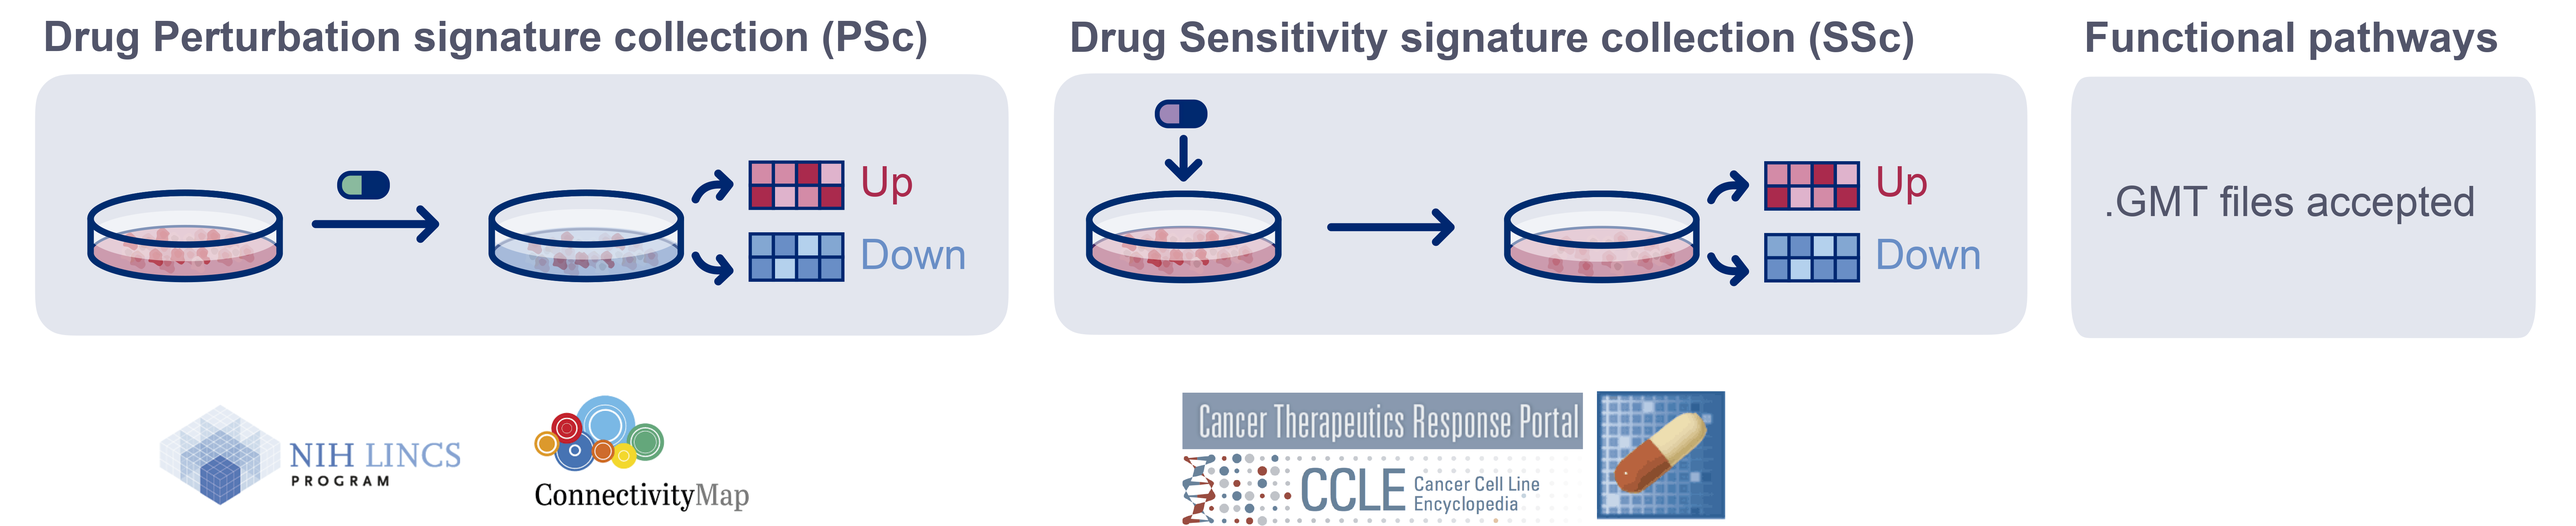
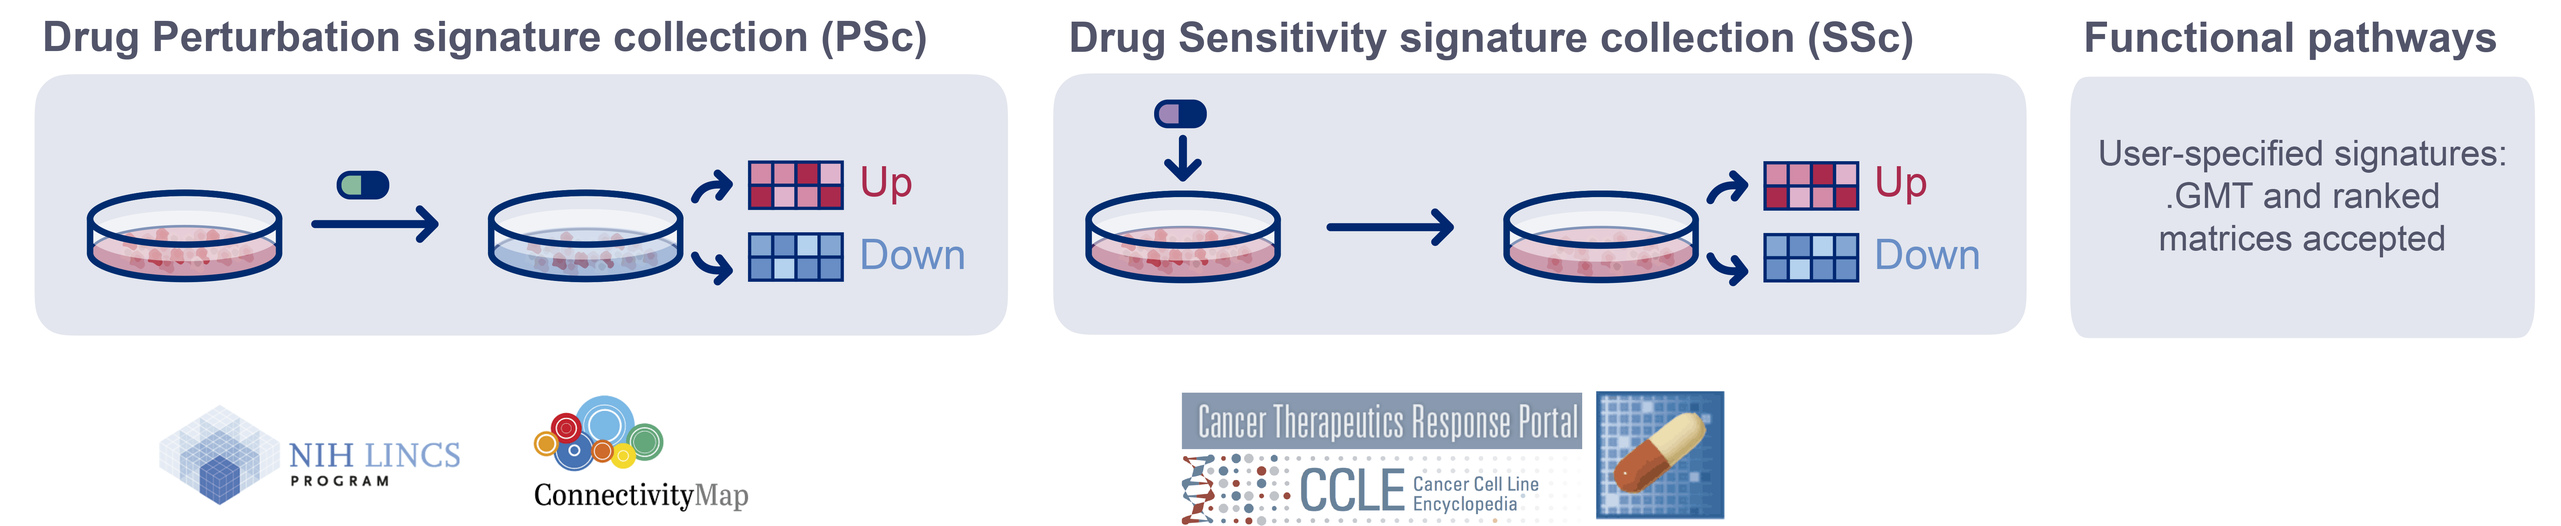
Update tutorials
Fixes minor spell typos and updates the installation page
with the conda installation instructions, tweaks some images
and adds authors to the license.

diff --git a/tutorial/analysis_workflow/README.md b/tutorial/analysis_workflow/README.md
@@ -9,53 +9,56 @@ We have validated Beyondcell in a population of MCF7-AA cells exposed to 500nM o
 ## Using Beyondcell
 For a correct analysis with **Beyondcell**, users should follow these steps: 
 
- 1. Read single cell expression matrix
- 2. Compute Beyondcell scores
- 3. Compute Therapeutic clusters
+ 1. Read a single-cell expression object
+ 2. Compute the Beyondcell scores (BCS)
+ 3. Compute the Therapeutic Clusters (TCs)
     * Check clustering and look for unwanted sources of variation
     * Regress out unwanted sources of variation
-    * Recompute UMAP
+    * Recompute UMAP rduction
  4. Compute ranks
  5. [**Visualize**](https://gitlab.com/bu_cnio/Beyondcell/-/tree/master/tutorial/visualization) the results
 
 
-### 1. Read single cell expression object
-In order to correctly compute the scores, the transcriptomic data needs to be pres-processed. This means that proper cell-based quality control filters, as well as normalization, scaling and clustering of the data, should be applied prior to the analysis with **Beyondcell**. 
+### 1. Read a single-cell expression object
+Beyondcell can accept both a single-cell matrix or a Seurat object. In order to correctly compute the scores, the transcriptomics data needs to be pre-processed. This means that proper cell-based quality control filters, as well as normalization and scaling of the data, should be applied prior to the analysis with Beyondcell.
+
+> Note: We recommend using a Seurat object.
 
 ```r
-library("Beyondcell")
+library("beyondcell")
 library("Seurat")
 # Read single cell experiment
 sc = readRDS(path_to_sc)
 ```
 
-### 2. Compute BCS
-The `bcCompute` function allows you to input either a pre-processed seurat object or a single cell matrix. Have in mind, that when a seurat object is used as an input, the `DefaultAssay` must be specified, both `SCT` and `RNA` assays are accepted.
+Note that if you are using a Seurat object, the `DefaultAssay` must be specified. Both `SCT` and `RNA` assays are accepted.
 
 ```r
 # Set Assay
 DefaultAssay(sc) <- "RNA"
 ```
-**Generate Signatures**\
-In order to compute the BCS, we also need a **gene signatures object** containing the drug or functional signatures we are interested in evaluating. To create this object, the `GenerateGenesets` function needs to be called. **Beyondcell** includes two drug signature collections that are ready to use:
 
- * The drug Perturbation Signatures collection (PSc): captures the transcriptional changes induced by a drug.
- * The drug Sensitivity  Signatures collection (SSc): captures the drug sensitivity to a given drug.
+### 2. Compute the BCS
+We need to perform two steps:
 
-A small collection of functional pathways will be included by default in your gene signatures object. These pathways are related to the regulation of the epithelial-mesenchymal transition (EMT), cell cycle, proliferation, senescence and apoptosis.  
+#### Get a geneset object with signatures of interest
+In order to compute the BCS, we also need a `geneset` object containing the drug or functional signatures we are interested in evaluating. To create this object, the `GenerateGenesets` function needs to be called. Beyondcell includes two drug signature collections that are ready to use:
+
+ * **Drug Perturbation Signatures collection (PSc):** Captures the transcriptional changes induced by a drug.
+ * **Drug Sensitivity Signatures collection (SSc):** Captures the drug sensitivity to a given drug.
+
+A small collection of functional pathways will be included by default in your gene signatures object. These pathways are related to the regulation of the epithelial-mesenchymal transition (EMT), cell cycle, proliferation, senescence and apoptosis.
 
 ```r
-# Generate gene signatures object with one of the ready to use signature collections
-gs <- GenerateGenesets(PSc, include.pathways = TRUE)
+# Generate geneset object with one of the ready to use signature collections
+gset <- GenerateGenesets(PSc)
 # You can deactivate the functional pathways option if you are not interested in evaluating them
-gs <- GenerateGenesets(PSc, include.pathways = FALSE)
+nopath <- GenerateGenesets(PSc, include.pathways = FALSE)
 ```
 
-Furthermore, **Beyondcell** allows the user to input a .GMT file containing the functional pathways/signatures of interest, or a numeric matrix (containing a ranking criteria such as the t-statistic or logFoldChange).
+PSc and SSc signatures can also be filtered according to several values. Moreover, Beyondcell allows the user to input a GMT file containing the functional pathways/signatures of interest, or a numeric matrix (containing a ranking criteria such as the t-statistic or logFoldChange). For further information please check [GenerateGenesets](https://gitlab.com/bu_cnio/Beyondcell/-/tree/master/tutorial/GenerateGenesets) tutorial.
 
-You can check out the structure of the obtained gene set object, information on the drug signatures, mode of action and target genes can be found at `gs@info` or by using the `FindDrugs` function. 
-
-**Compute BCS**
+#### Compute the BCS
 ```r
 # Compute score for the PSc. This might take a few minutes depending on the size of your dataset.
 bc <- bcScore(sc, gs, expr.thres = 0.1) 
@@ -85,13 +88,13 @@ It is important to check whether any unwanted source of variation is guiding the
 
 ```r
 # Visualize whether cells are clustered based on the number of genes detecter per each cell
-bcClusters(bc, UMAP = "Beyondcell", idents = "nFeature_RNA", factor.col = FALSE)
+bcClusters(bc, UMAP = "beyondcell", idents = "nFeature_RNA", factor.col = FALSE)
 ```
 <img src=".img/nFeature_variation.png" width="500">
 
 ```r
 # Visualize whether cells are clustered based on their cell cycle status
-bcClusters(bc, UMAP = "Beyondcell", idents = "Phase", factor.col = TRUE)
+bcClusters(bc, UMAP = "beyondcell", idents = "Phase", factor.col = TRUE)
 ```
 <img src=".img/Phase_variation.png" width="500">
 
@@ -112,9 +115,9 @@ Once corrected, you will need to recompute the dimensionality reduction and clus
 # Recompute UMAP
 bc <- bcUMAP(bc, pc = 5, res = 0.2, add.DSS = FALSE, k.neighbors = 20) 
 # Visualize UMAP
-bcClusters(bc, UMAP = "Beyondcell", idents = "nFeature_RNA", factor.col = FALSE, pt.size = 1)
+bcClusters(bc, UMAP = "beyondcell", idents = "nFeature_RNA", factor.col = FALSE, pt.size = 1)
 # Visualize Therapeutic clusters
-bcClusters(bc, UMAP = "Beyondcell", idents = "bc_clusters_res.0.2", pt.size = 1)
+bcClusters(bc, UMAP = "beyondcell", idents = "bc_clusters_res.0.2", pt.size = 1)
 ```
 
 <p float="left">

diff --git a/tutorial/GenerateGenesets/README.md b/tutorial/GenerateGenesets/README.md
@@ -1,0 +1,73 @@
+# GenerateGenesets function
+
+
+
+By default, `GenerateGenesets` returns a `geneset` with the `250` most upregulated and downregulated genes in each drug signature. You can change this behaviour by providing new values to `n.genes` and `mode`. Moreover, a small collection of functional pathways will be included in your `geneset` object. These pathways are related to the regulation of the epithelial-mesenchymal transition (EMT), cell cycle, proliferation, senescence and apoptosis. Note that `n.genes` and `mode` arguments do not affect to functional pathways.
+
+```r
+# Generate geneset object with one of the ready to use signature collections.
+gset <- GenerateGenesets(PSc)
+# Retrieve only the top 100 most upregulated genes in drug signatures (functional pathways remain unchanged)
+up100 <- GenerateGenesets(PSc, n.genes = 100, mode = "up")
+# You can deactivate the functional pathways option if you are not interested in evaluating them
+nopath <- GenerateGenesets(PSc, include.pathways = FALSE)
+```
+
+Additionaly, you can computed a `geneset` from a pre-loaded PSc subset called DSS.
+
+```r
+# Generate geneset object with one of the ready to use signature collections
+dss <- GenerateGenesets(DSS, include.pathways = FALSE)
+```
+
+Also, you can filter PSc, SSc and DDS objects by several fields (cap insensitive):
+
+ * `drugs`: Drug name of interest (i.e sirolimus).
+ * `IDs`: `sig_id` of the signature(s) of interest.
+ * `MoA`: Desired mechanism of action of interest (i.e. MTOR INHIBITOR).
+ * `targets`: Target gene of interest (i.e. MTOR).
+ * `source`: `"LINCS"` (for PSc) or `"GDSC"`, `"CCLE"` and/or `"CTRP"` (for SSc)
+
+```r
+# Return a `geneset` with all sirolimus signatures, as well as signatures of sirolimus synonyms such as 
+# rapamycin or BRD-K84937637
+sirolimus <- GenerateGenesets(SSc, include.pathways = FALSE, filters = list(drugs = "sirolimus"))
+# Return just a subset of sirolimus signatures
+my_sigs <- GenerateGenesets(SSc, include.pathways = FALSE, filters = list(IDs = c("sig_2349", "sig_7409"))
+# Return all MTOR INHIBITORS
+MTORi <- GenerateGenesets(SSc, include.pathways = FALSE, filters = list(MoA = "MTOR INHIBITOR")
+# Return all drugs targetting MTOR
+mtor_targets <- GenerateGenesets(SSc, include.pathways = FALSE, filters = list(targets = "MTOR")
+# Return only signatures derived from GDSC and CCLE
+my_sources <- GenerateGenesets(SSc, include.pathways = FALSE, filters = list(source = c("GDSC", "CCLE"))
+```
+
+By calling `ListFilters` function, you can retrieve all the available values for a given field. The signatures that pass **ANY** of these filters are included in the final `geneset`.
+
+```r
+# Values for targets
+ListFilters(entry = "targets")
+# Geneset with all drugs taht target MTOR and sirolimus signatures
+filter_combination <- GenerateGenesets(SSc, include.pathways = FALSE, 
+                                       filters = list(drugs = "sirolimus", targets = "MTOR"))
+```
+You can check information about the pre-loaded signatures calling the object `drugInfo`. Also, each `geneset` object obtained using pre-loaded matrices contains a subset of `drugInfo` for the selected drugs.
+
+```r
+# drugInfo of the signatures of interest
+gset@info
+```
+
+Finally, Beyondcell allows the user to input a GMT file containing the functional pathways/signatures of interest or a numeric matrix (containing a ranking criteria such as the t-statistic or logFoldChange).
+
+ * **In case your input is a GMT file:** You must supply the path to the file. Take into account that the names of each gene set must end in `"_UP"` or `"_DOWN"` to specify its mode. In this case, `n.genes` and `mode` are deprecated.
+ * **In case your input is a numeric matrix:** Make sure that rows correspond to genes and columns to signatures.
+ 
+In both cases, `filters` argument is deprecated but you must indicate if the `comparison` that yielded your input was `"treated_vs_control"` or `"sensitive_vs_resistant"`.
+
+```r
+# Mock numeric matrix
+m <- matrix(rnorm(500 * 25), ncol = 25, dimnames = list(rownames(PSc[[1]])[1:500], colnames(PSc[[1]])[1:25]))
+num_matrix <- GenerateGenesets(m, n.genes = 100, mode = c("up", "down"), 
+                               comparison = "treated_vs_control", include.pathways = TRUE)
+```

diff --git a/README.md b/README.md
@@ -7,7 +7,7 @@
 
 ## Workflow overview
 
-**Beyondcell workflow.** Given two inputs, the scRNA-seq expression matrix and a collection of drug signatures, the methodology calculates a beyondcell score (BCS) for each drug-cell pair. The BCS ranges from 0 to 1 and measures the susceptibility of each cell to a given drug. The resulting BCS matrix can be used to determine the sample’s therapeutic clusters. Furthermore, drugs are prioritized in a table and each individual drug score can be visualized in a UMAP.
+**Beyondcell workflow.** Given two inputs, the scRNA-seq expression matrix and a collection of drug signatures, the methodology calculates a Beyondcell score (BCS) for each drug-cell pair. The BCS ranges from 0 to 1 and measures the susceptibility of each cell to a given drug. The resulting BCS matrix can be used to determine the sample’s therapeutic clusters. Furthermore, drugs are prioritized in a table and each individual drug score can be visualized in a UMAP.
 
 ![Beyondcell workflow](./.img/workflow_tutorial.png)
 
@@ -22,18 +22,19 @@ Depending on the evaluated signatures, the BCS represents the cell perturbation 
  * If time points are available, identify the changes in drug tolerance of your samples
  * Identify mechanisms of resistance
 
-## Installing beyondcell
-The **Beyondcell** algorithm is implemented in R (v. 4.0.0 or greater). We recommend running the installation via gitlab using devtools:
+## Installing Beyondcell
+The Beyondcell algorithm is implemented in R (v. 4.0.0 or greater). We recommend running the installation via conda: 
 
 ```r
-library("devtools")
-devtools::install_gitlab("bu_cnio/Beyondcell")
+# Create a conda environment
+conda create -n beyondcell 
+# Install Beyondcell package and dependencies
+conda install -c bu_cnio beyondcell
 ```
 
-See the DESCRIPTION file for a complete list of R dependencies. If the R dependencies are already installed, installation should finish promptly.
 
 ## Results
-We have validated Beyondcell in a population of MCF7-AA cells exposed to 500nM of bortezomib and collected at different time points: t0 (before treatment), t12, t48 and t96 (72h treatment followed by drug wash and 24h of recovery) obtained from *Ben-David U, et al., Nature, 2018*. We integrated all four conditions using the Seurat pipeline (left). After calculating the beyondcell scores (BCS) for each cell, a clustering analysis was applied. **Beyondcell** was able to cluster the cells based on their treatment time point, to separate untreated cells from treated cells (center) and to recapitulate the changes arisen by the treatment with bortezomib (right). 
+We have validated Beyondcell in a population of MCF7-AA cells exposed to 500nM of bortezomib and collected at different time points: t0 (before treatment), t12, t48 and t96 (72h treatment followed by drug wash and 24h of recovery) obtained from *Ben-David U, et al., Nature, 2018*. We integrated all four conditions using the Seurat pipeline (left). After calculating the BCS for each cell, a clustering analysis was applied. Beyondcell was able to cluster the cells based on their treatment time point, to separate untreated cells from treated cells (center) and to recapitulate the changes arisen by the treatment with bortezomib (right). 
 
 ![results_golub](./.img/integrated_bendavid.png)
 
@@ -45,17 +46,16 @@ For general instructions on running Beyondcell, check out the [analysis workflow
 ## Authors
 
  * Coral Fustero-Torre
- * María José Jiménez
+ * María José Jiménez-Santos
  * Santiago García-Martín
  * Carlos Carretero-Puche
- * Luis G. Jimeno
+ * Luis García-Jimeno
  * Tomás Di Domenico
  * Gonzalo Gómez-López
  * Fátima Al-Shahrour
 
 
-
-## References
+## Citation
 
 ## Support
-If you have any question regarding the use of **Beyoncell**, feel free to submit an [issue](https://gitlab.com/bu_cnio/Beyondcell/issues).
+If you have any question regarding the use of Beyoncell, feel free to submit an [issue](https://gitlab.com/bu_cnio/Beyondcell/issues).

diff --git a/tutorial/visualization/README.md b/tutorial/visualization/README.md
@@ -69,7 +69,7 @@ bcSignatures(bc, UMAP = "beyondcell", genes = list(values = "PSMA5"), pt.size = 
 <img src=".img/psma5_expr.png" width="500">
 
 ## Ranking visualization
-We can summarize the ranking results using the `bc4Squares` function. This function summarizes the top hits obtained for each of the specified condition levels. The residuals are represented in the x axis, the switch point is represented in the y axis. The top-left and bottom-right corners contain the drugs to which all selected cells are most/least sensistive, respectively. The centre quadrants show the drugs with an heterogeneous response. In this case, we can clearly see how the tool predicts an heterogeneous response to bortezomib. 
+We can summarize the ranking results using the `bc4Squares` function. This function summarizes the top hits obtained for each of the specified condition levels. The residuals are represented in the x axis, the switch point is represented in the y axis. The top-left and bottom-right corners contain the drugs to which all selected cells are least/most sensitive, respectively. The centre quadrants show the drugs with an heterogeneous response. In this case, we can clearly see how the tool predicts an heterogeneous response to bortezomib. 
 
 ```r
 bc4Squares(bc, idents = "condition", lvl = "t0", top = 5)
